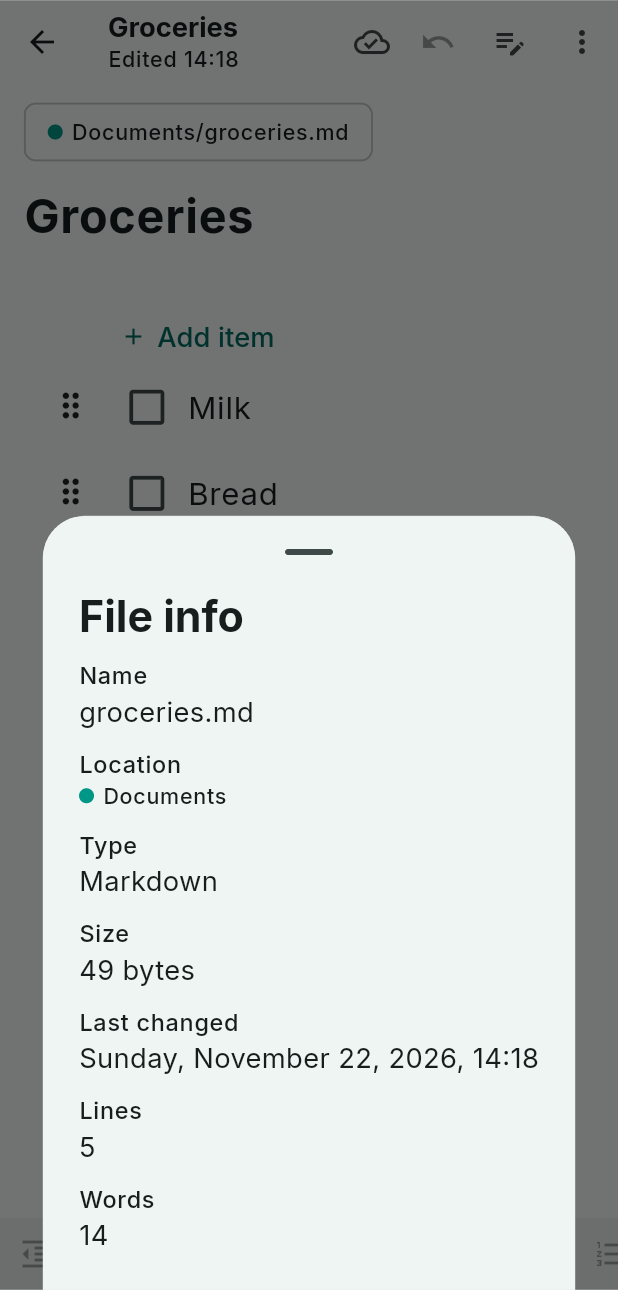
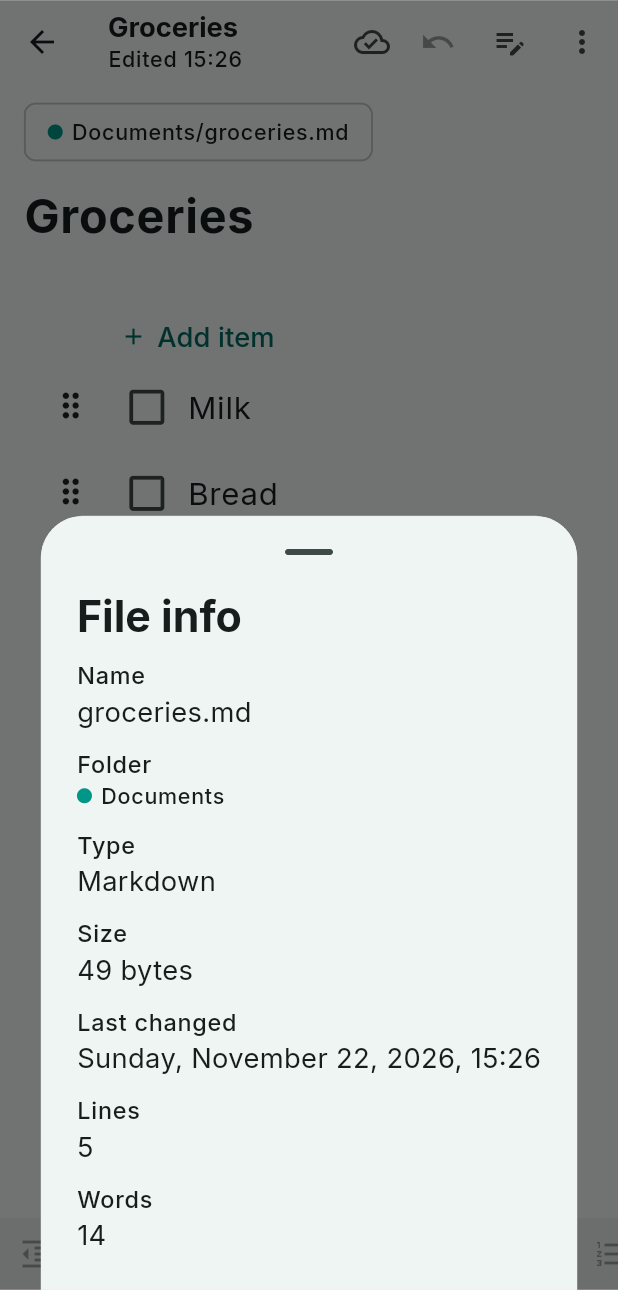
Retake the File info screenshots with the Folder row
Claude-Session: https://claude.ai/code/session_0133XUK32cDxML64i9xLVUeG

diff --git a/docs/features.md b/docs/features.md
@@ -15,8 +15,8 @@ Images now show in Recently edited, so a picture you just added is
 right on top. For a folder of photos, turn off **Show images in Recently
 edited** in that folder's settings.
 
-<img src="screenshots/file-info/file_info_image_desktop.png" width="600" alt="File info of a photo of mountains: name, location, type, size, last changed, dimensions, date taken, camera, lens, exposure and location">
-<img src="screenshots/file-info/file_info_document_touch.png" width="280" alt="On a phone with larger text, File info of a shopping list: name, location, type, size, last changed, lines and words">
+<img src="screenshots/file-info/file_info_image_desktop.png" width="600" alt="File info of a photo of mountains: name, folder, type, size, last changed, dimensions, date taken, camera, lens, exposure and location">
+<img src="screenshots/file-info/file_info_document_touch.png" width="280" alt="On a phone with larger text, File info of a shopping list: name, folder, type, size, last changed, lines and words">
 <img src="screenshots/file-info/folder_images_switch_touch.png" width="280" alt="A folder's settings on a phone: Show images in Recently edited, on">
 
 ## Images as files
